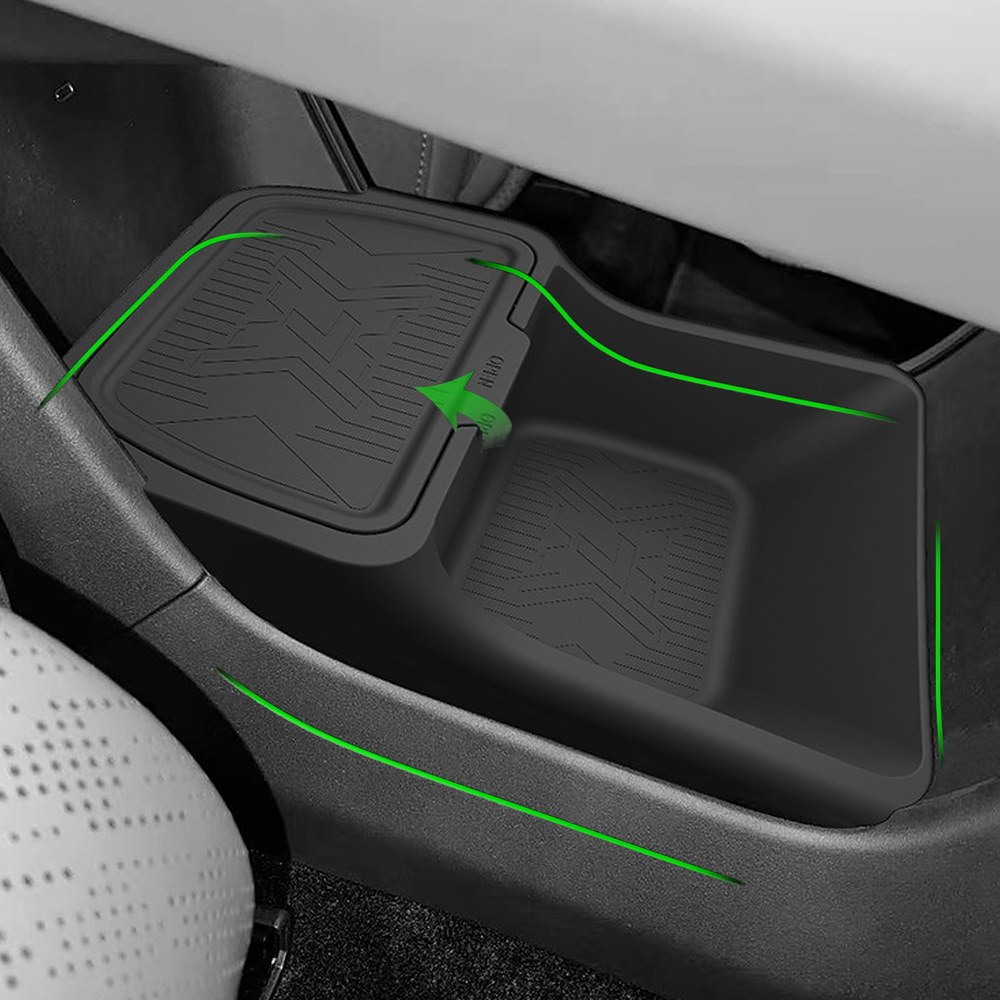
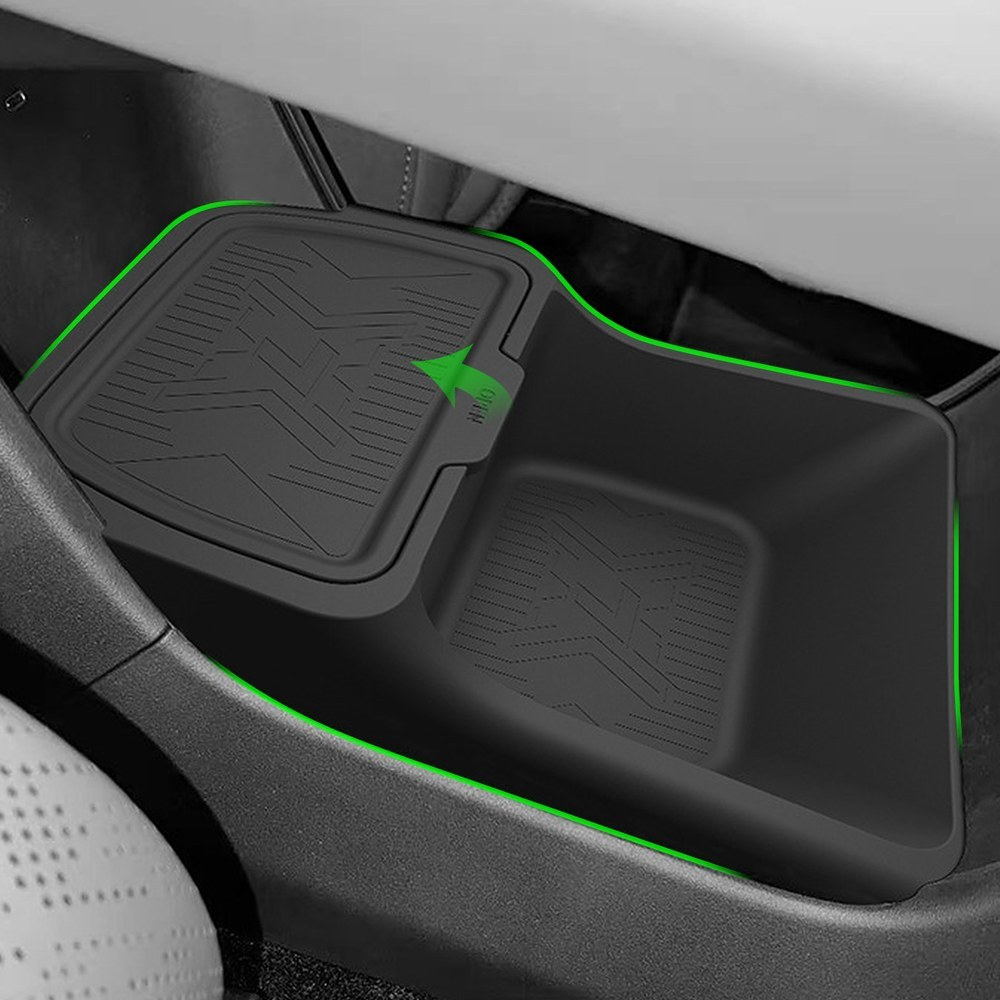
12번 대표사진: 녹색 라인을 원본 위치에 정확히 정렬

diff --git a/shop/config.js b/shop/config.js
@@ -8,4 +8,4 @@ window.SHEET_URL = 'https://docs.google.com/spreadsheets/d/19crq_-szVqdJRlVK12RK
 window.KAKAO_CHANNEL_URL = 'https://pf.kakao.com/_vtvxiX/chat';
 
 // 상품 사진 버전 (사진을 교체하면 숫자를 올려 주세요)
-window.ASSET_V = '10122330';
+window.ASSET_V = '10122340';
